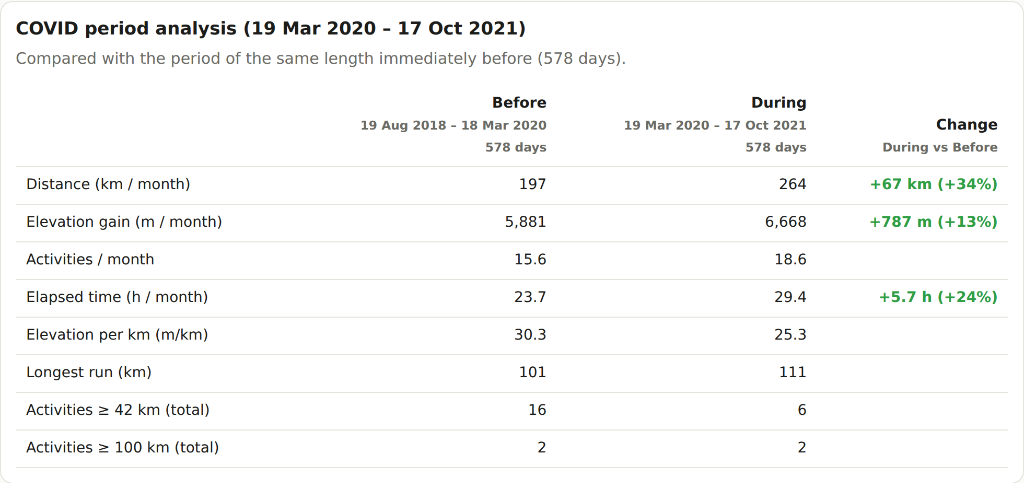
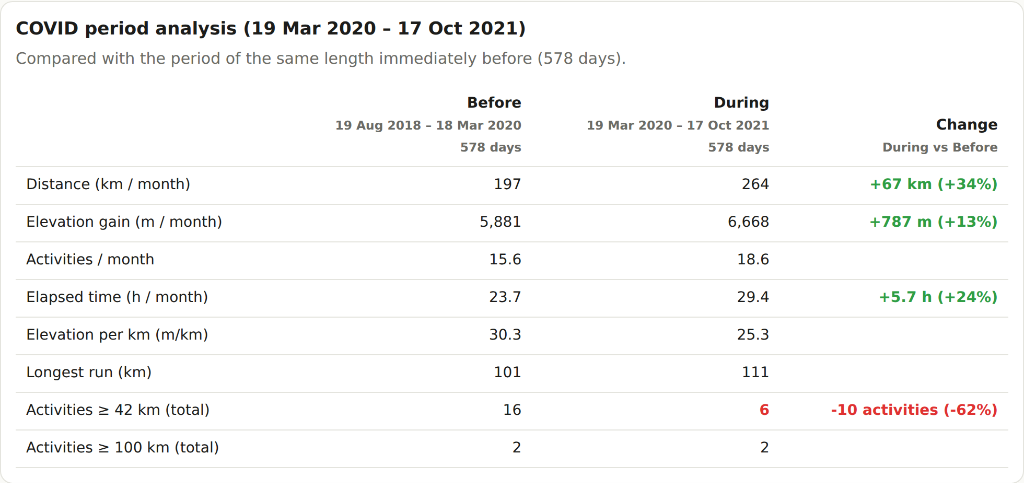
Update COVID period table with highlighted drop in >=42km activities

diff --git a/strava_utmb.html b/strava_utmb.html
@@ -148,7 +148,7 @@
           </p>
 
           <div class="article-img-box">
-            <img src="images/strava_covid_period_analysis.png" alt="COVID period analysis (19 Mar 2020 - 17 Oct 2021) compared with preceding period" />
+            <img src="images/strava_covid_period_analysis.png?v=2" alt="COVID period analysis (19 Mar 2020 - 17 Oct 2021) compared with preceding period" />
           </div>
 
           <div class="article-actions-footer">
